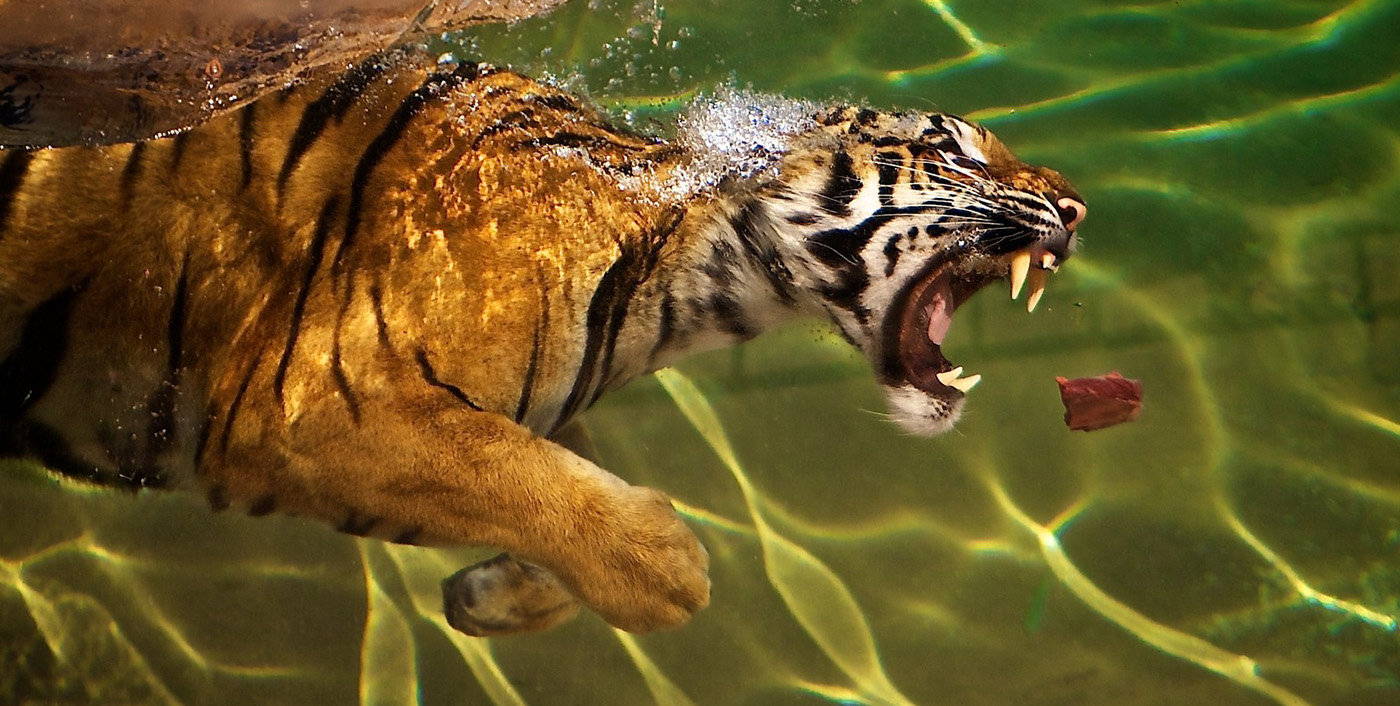
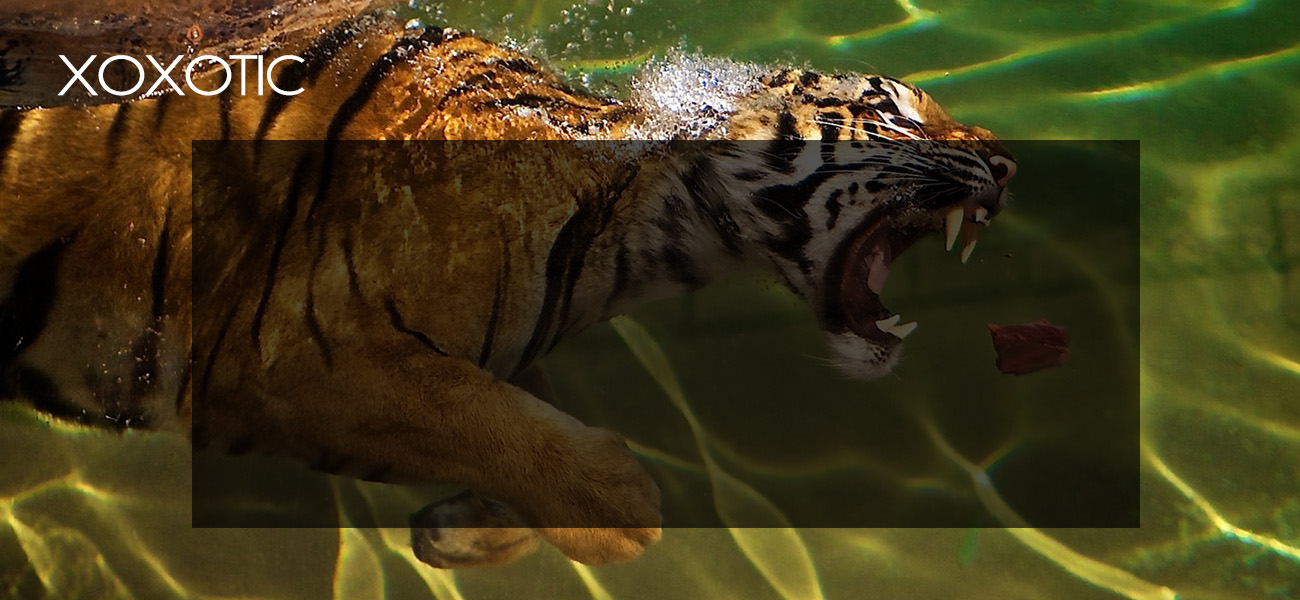
la version mas nueva con casi todo listo :)

diff --git a/views/nosotros.html b/views/nosotros.html
@@ -3,36 +3,69 @@
 <head>
   <meta charset="UTF-8">
   <title>Acerca de nosotros</title>
-  <link rel="stylesheet" href="css/estilo.css"/>
+  <link rel="stylesheet" href="../css/estilo.css"/>
 </head>
 <body>
  
+ <div class="contenedor2">
  <header>
-   <div id="subnavbar">
-<ul id="subnav" class="right w20">
 
-<li class="navbar"><a href="URL_de_la_pagina" title="Inicio"><img src="..images/inicio 1.png" /></a>
+
+   <div id="subnavbar">
+
+<ul id="subnav" class="right w30">
+
+<li class="navbar"><a href="../index.html" title="Inicio"><img src="../images/inicio 1.png" /></a>
 </li>
-<li class="navbar"><a href="URL_de_la_pagina" title="Acerca de Nosotros"><img src="images/inico 2.png " /></a>
+<li class="navbar"><a href="../views/nosotros.html" title="Acerca de Nosotros"><img src="../images/inico 2.png " /></a>
 </li>
-<li class="navbar"><a href=" URL_de_la_pagina " title="Nota del día"><img src="images/incio 3.png" /></a>
+<li class="navbar"><a href=" URL_de_la_pagina " title="Nota del día"><img src="../images/incio 3.png" /></a>
 </li>
 </ul>
 </div>
  </header> 
 
- <footer>
- <div class="w100 c_negro">
-  <ul class="l60 w40">
-    <li><a href="">Inicio</a></li>
-    <li><a href="">Catalogo</a></li>
-    <li><a href="">Servicios</a></li>
-    <li><a href="">Contacto</a></li>
-  </ul>
-</div>
- </footer>    
- 
+<div class="caja">
+	<font size="5" face="brixton" color=#fff>
+		NOTA DEL DIA
+	</font>
+	<font size="10" face="impact" color=#fff>
+		<br>EL TIGRE
+		<br>DE BENGALA
+	</font>
+	<font size="3" face="brixton" color=#fff>
+		 <br>
+		 También conocido como tigre de Bengala real o tigre indio es una subespecie de tigre que habita en la India, Nepal, Bangladés, Bután, Birmania y Tíbet. Su piel es generalmente de color naranja o leonado. Existe una mutación genética que produce que la piel naranja del tigre sea sustituida por el color blanco; a estos tigres se les conoce como tigres blancos. Una mutación aún más rara (de la que existen menos de 100 ejemplares, todos en cautiverio), se conoce como tigre dorado. El tigre es un animal nacional en la India y Bangladés.
+		 <p>
+		 	Como todos los tigres, son animales solitarios y generalmente no viven en grupos, a excepción de las hembras, que viajan con sus crías en grupos de tres o cuatro. Los machos cuidan un territorio donde viven varias hembras con las que aparean. Los machos y las hembras solo se reúnen durante la época de reproducción, si bien se han mencionado casos de machos que alimentan a sus crías cuando la madre ha fallecido.11 La mayoría de las crías nacen entre febrero y mayo, y tras una gestación de entre 98 y 108 días, dan a luz una camada de 1 a 6 cachorros (normalmente de 2 a 4) de 1.1 kg de peso. La esperanza de vida para los tigres de Bengala machos es de entre 10 y 12 años, mientras que para las hembras es un poco más larga; sin embargo, los ejemplares en cautividad pueden llegar a vivir hasta 26 años. Los expertos descubrieron recientemente que aproximadamente el 25% de los tigres machos del Parque Nacional de Kanha mueren en luchas con otros tigres.
+		 </p>
+		 <p>
+		 	Los tigres de Bengala son carnívoros y cazan desde pavos reales hasta búfalos asiáticos y gaures (incluyendo los grandes machos que alcanzan los 1000 kg de peso), pasando por toda una gama de presas que incluye monos, jabalíes, tapires, ciervos y antílopes. Se han reportado casos más raros en que los tigres han atacado a crías de rinoceronte y elefante, e incluso de individuos que fueron capaces de abatir y devorar a otros grandes carnívoros como leopardos y osos. Mucho más raros son los ataques contra humanos, aunque hasta hace un siglo se sucedían con cierta frecuencia. Se calcula que solo en Bangladesh se producen unos 100 ataques al año.
+		 </p>
+		  <p>
+		 	La mayor parte de tigres de Bengala, casi un tercio de la población mundial de estos grandes felinos habita en la India y Bangladés. Los parques nacionales de estos países como Sundarbans y Ranthambore albergan la mayor parte de éstos. También hay una población importante en Nepal, principalmente en el parque Chitawan.
+		 </p>
 
+
+</div>
+
+<footer>
+	<div class="foot">
+		<font size="2" face="brixton" color=#fff>
+		Página desarrollada por Karen Alvardo y Melissa Melgar | Todos los derechos reservados 
+	</font>
+	</div>
+</footer>
+
+
+
+
+ </div>
+
+
+
+   
+ 
 
   
 </body>

diff --git a/index.html b/index.html
@@ -9,12 +9,14 @@
  
  <div class="contenedor">
  <header>
+
+
    <div id="subnavbar">
 <ul id="subnav" class="right w30">
 
-<li class="navbar"><a href="URL_de_la_pagina" title="Inicio"><img src="images/inicio 1.png" /></a>
+<li class="navbar"><a href="index.html" title="Inicio"><img src="images/inicio 1.png" /></a>
 </li>
-<li class="navbar"><a href="URL_de_la_pagina" title="Acerca de Nosotros"><img src="images/inico 2.png " /></a>
+<li class="navbar"><a href="views/nosotros.html" title="Acerca de Nosotros"><img src="images/inico 2.png " /></a>
 </li>
 <li class="navbar"><a href=" URL_de_la_pagina " title="Nota del día"><img src="images/incio 3.png" /></a>
 </li>
@@ -22,6 +24,14 @@
 </div>
  </header> 
  </div>
+
+<footer>
+  <div class="foot2">
+    <font size="2" face="brixton" color=#fff>
+    Página desarrollada por Karen Alvardo y Melissa Melgar | Todos los derechos reservados 
+  </font>
+  </div>
+</footer>
 
   
 </body>

diff --git a/css/estilo.css b/css/estilo.css
@@ -1,7 +1,7 @@
 @charset "utf-8";
 
 @import url(style.css);
-
+@import url(new_style.css);
 
 
 body{
@@ -18,18 +18,44 @@ body{
 	min-height: 600px;
 	overflow: auto;
 	max-height: 1300px;
-	background:#DBDCD6;
-	background:url("../images/creo que funciona.jpg")	
+	background:url("../images/creo que funciona.jpg");
+	background-repeat: no-repeat;
+
 }
+
 
 
 .navbar{
 	display: inline;
 	overflow: hidden;
-	width: 30%
+	margin-bottom: 80%;
 	text-decoration: none;
 }
 
+.logo{
+	margin-right: 70%; 
+	overflow: hidden;
+	width: 30%
+	text-decoration: none;
+} 
+
+.foot{
+	background-color: #000;
+	width: 100%;
+	float: left;
+	text-align: center;
+	margin-top: 6%;
+	
+}
+
+.foot2{
+	background-color: #000;
+	width: 100%;
+	float: left;
+	text-align: center;
+	margin-top: 1%;
+	
+}
 
 
 

diff --git a/css/new_style.css b/css/new_style.css
@@ -1,0 +1,32 @@
+@charset "utf-8";
+
+.contenedor2 {
+	margin-left: auto;
+	margin-right: auto;
+	width: 100%;
+	max-width: 1300px;
+	min-height: 600px;
+	overflow: auto;
+	max-height: 1300px;
+	background:url(".././images/62080_1600x1200.jpg");
+	background-repeat: no-repeat;	
+}
+
+.caja{
+	background-color: #000
+	width: 600px;
+	height: 350px;
+	text-align: left;
+	font-size: 10;
+	font-color: #fff;
+	margin-left: 20%;
+	margin-right: 20%;
+	margin-top: 12%;
+	overflow: scroll;
+	overflow-x: hidden;
+	visibility: visible;
+	
+	}
+
+
+
